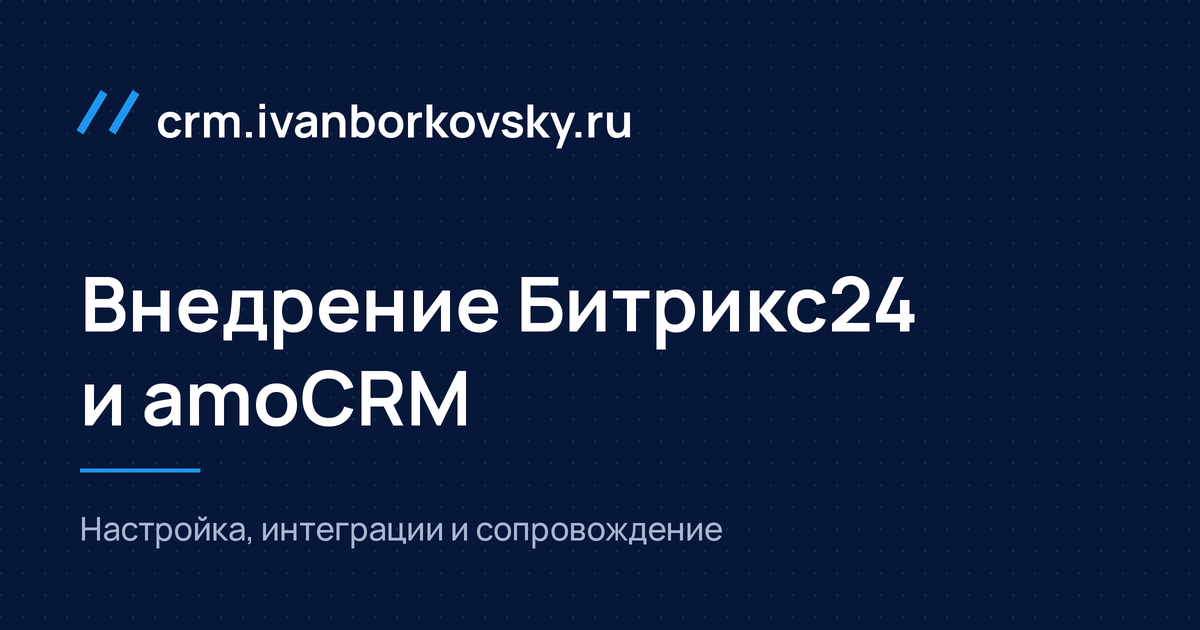
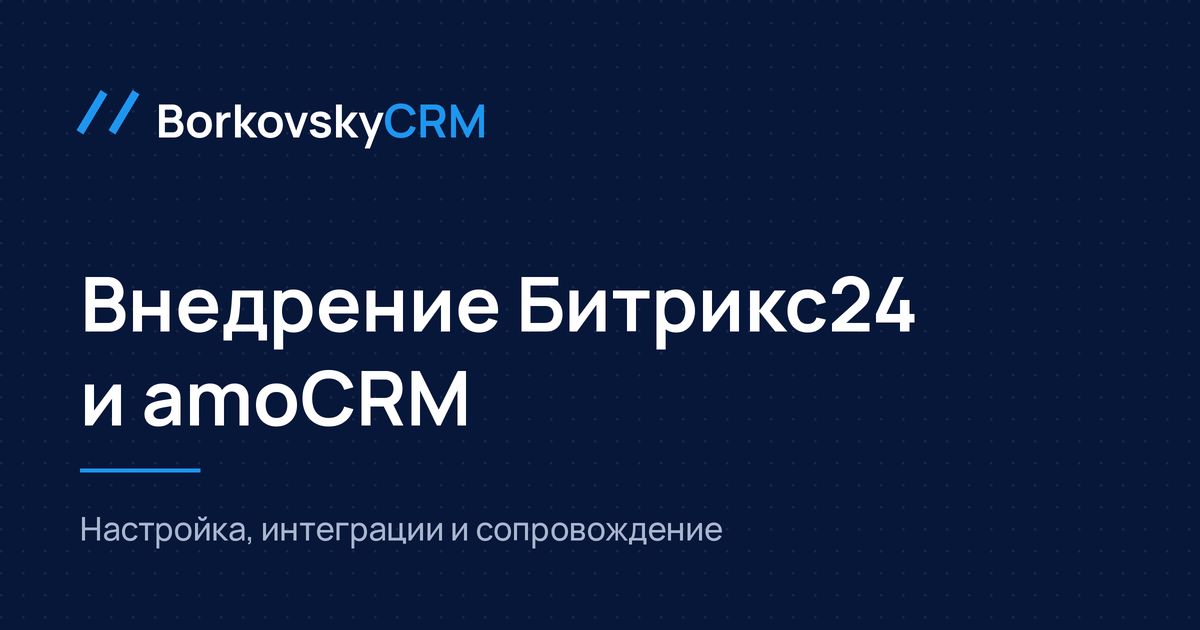
Название компании BorkovskyCRM вместо адреса сайта
Раньше в роли названия выступал адрес сайта — crm.ivanborkovsky.ru.
Он стоял в шапке, в подвале, в конце каждого заголовка страницы,
в Open Graph и в микроразметке. Теперь везде BorkovskyCRM.

Название задаётся в config/app.php одним значением, поэтому правка
одна, а меняется всё сразу. В том же файле разведены три разных имени,
которые нельзя путать:

  brand      — название компании, его видят люди и поисковики;
  name       — имя человека: владелец, автор статей, основатель;
  legal_name — как компания называется по документам.

Что изменилось вслед за названием:

* заголовки страниц теперь заканчиваются на «— BorkovskyCRM»;
* og:site_name, Organization.name и WebSite.name в микроразметке;
* картинка ссылки share.png перерисована, название набрано в два
  цвета: «CRM» акцентным синим, как в логотипе;
* logo.png для поисковиков перерисован по геометрии фавикона —
  с точкой, которой в прошлой версии не было, хотя в иконке
  во вкладке она есть;
* отправитель письма с заявкой: было «Сайт crm.ivanborkovsky.ru»,
  стало «Сайт BorkovskyCRM» — так письмо узнаётся во входящих;
* подпись на странице входа в админку.

Намеренно НЕ менялось: юридическое название в политике и реквизитах
(это лицо по документам), имя Иван Борковский как автор статей,
основатель и эксперт (это человек, а не компания), и адрес сайта
в canonical, карте сайта и юридических текстах — домен прежний.

В набор проверок добавлено правило: название компании должно совпадать
[…]

Changed region(s): [[0.1233, 0.1508, 0.5242, 0.2413]]

diff --git a/config/app.php b/config/app.php
@@ -18,9 +18,18 @@ return [
     'debug' => filter_var(getenv('APP_DEBUG') ?: 'false', FILTER_VALIDATE_BOOL),
 
     // Данные компании. Используются в шапке, подвале, контактах и микроразметке.
+    //
+    // Три разных имени, и путать их нельзя:
+    //   brand      — название компании. Оно в шапке, в подвале, в конце
+    //                каждого заголовка страницы, в Open Graph и в микроразметке.
+    //                Это то, по чему компанию узнают поисковики и люди.
+    //   name       — имя человека. Владелец, автор статей, основатель
+    //                в микроразметке. К названию компании отношения не имеет.
+    //   legal_name — как компания называется по документам. Нужна
+    //                в юридических текстах и в реквизитах, больше нигде.
     'company' => [
         'name'       => 'Иван Борковский',
-        'brand'      => 'crm.ivanborkovsky.ru',
+        'brand'      => 'BorkovskyCRM',
         'site'       => 'ivanborkovsky.ru',
         'legal_name' => 'ИП Борковский Иван Даниялович',
         'ogrn'       => '323370000019203',

diff --git a/app/Controllers/LeadController.php b/app/Controllers/LeadController.php
@@ -140,7 +140,10 @@ final class LeadController extends Controller
         // Тема письма кириллицей требует MIME-кодирования, иначе почтовые
         // клиенты покажут вместо неё набор символов.
         $headers = [
-            'From: =?UTF-8?B?' . base64_encode('Сайт crm.ivanborkovsky.ru') . "?= <{$from}>",
+            // Отправителем ставим название компании, а не адрес сайта:
+            // так письмо узнаётся в списке входящих с одного взгляда.
+            'From: =?UTF-8?B?' . base64_encode('Сайт ' . $this->config['company']['brand'])
+                . "?= <{$from}>",
             'Content-Type: text/plain; charset=UTF-8',
             'MIME-Version: 1.0',
         ];

diff --git a/app/Views/pages/admin/login.php b/app/Views/pages/admin/login.php
@@ -4,6 +4,7 @@
  *
  * @var string $error
  * @var string $login
+ * @var array  $config
  */
 
 use App\Core\Csrf;
@@ -11,7 +12,7 @@ use App\Core\View;
 ?>
 <div class="acard-narrow">
     <h1>Вход</h1>
-    <p class="amuted">Управление статьями сайта crm.ivanborkovsky.ru</p>
+    <p class="amuted">Управление статьями сайта <?= View::e($config['company']['brand']) ?></p>
 
     <?php if ($error !== ''): ?>
         <p class="aalert aalert--error"><?= View::e($error) ?></p>
